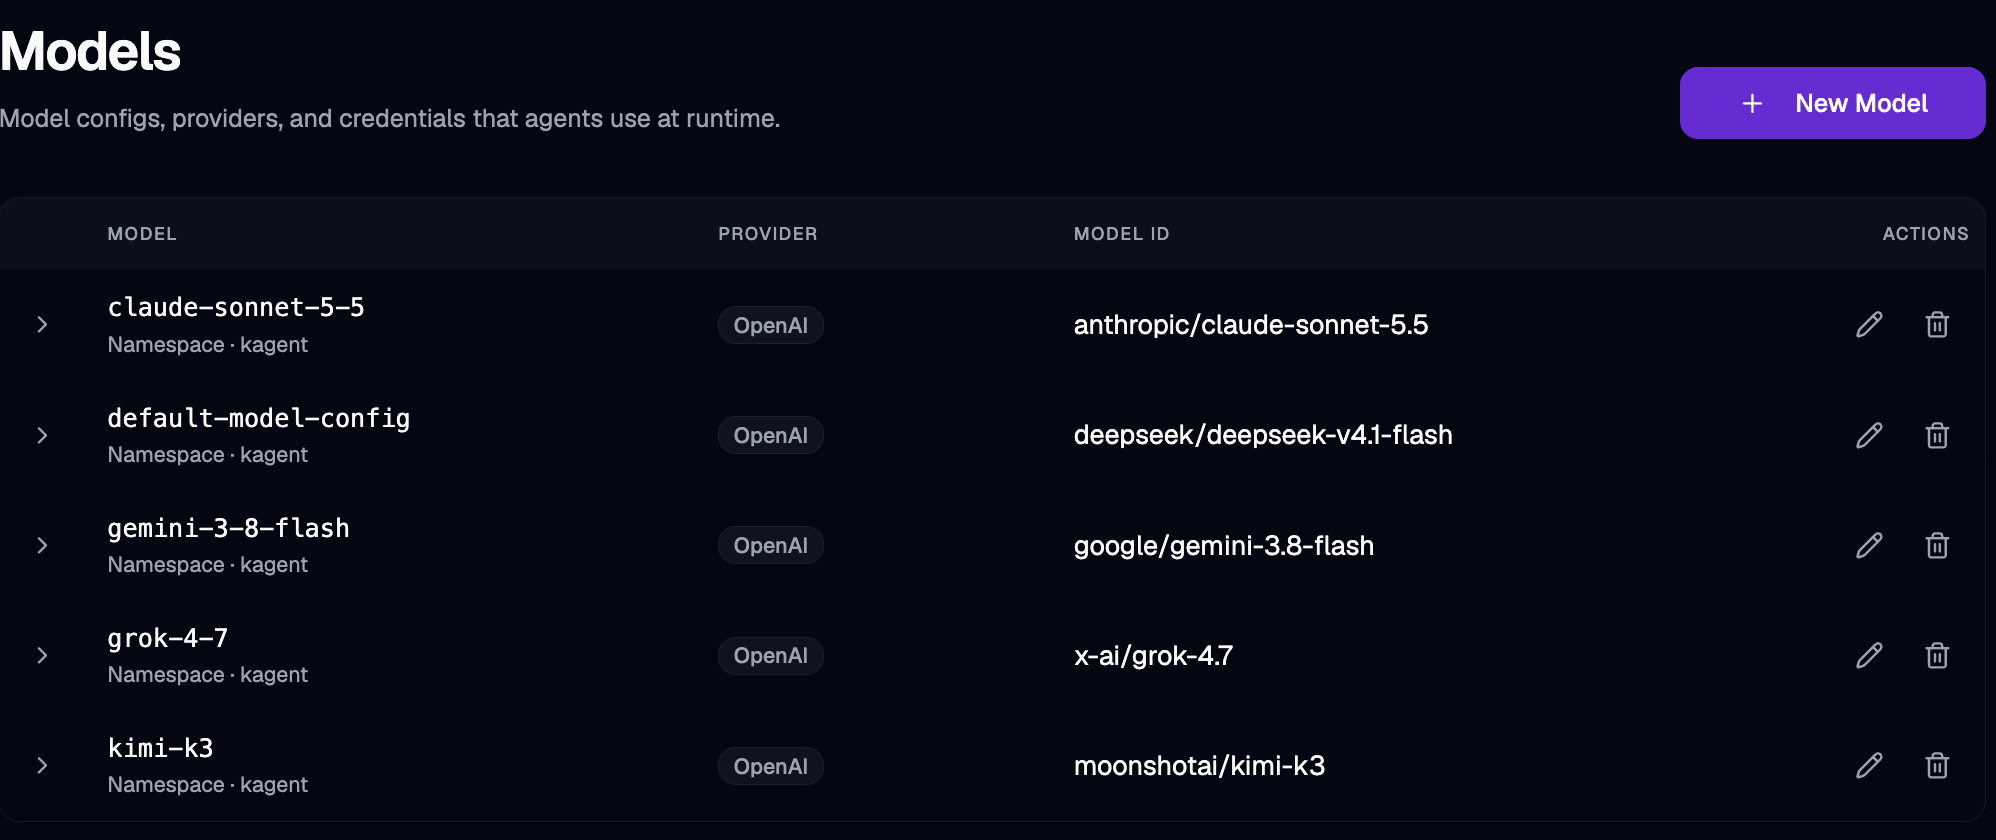
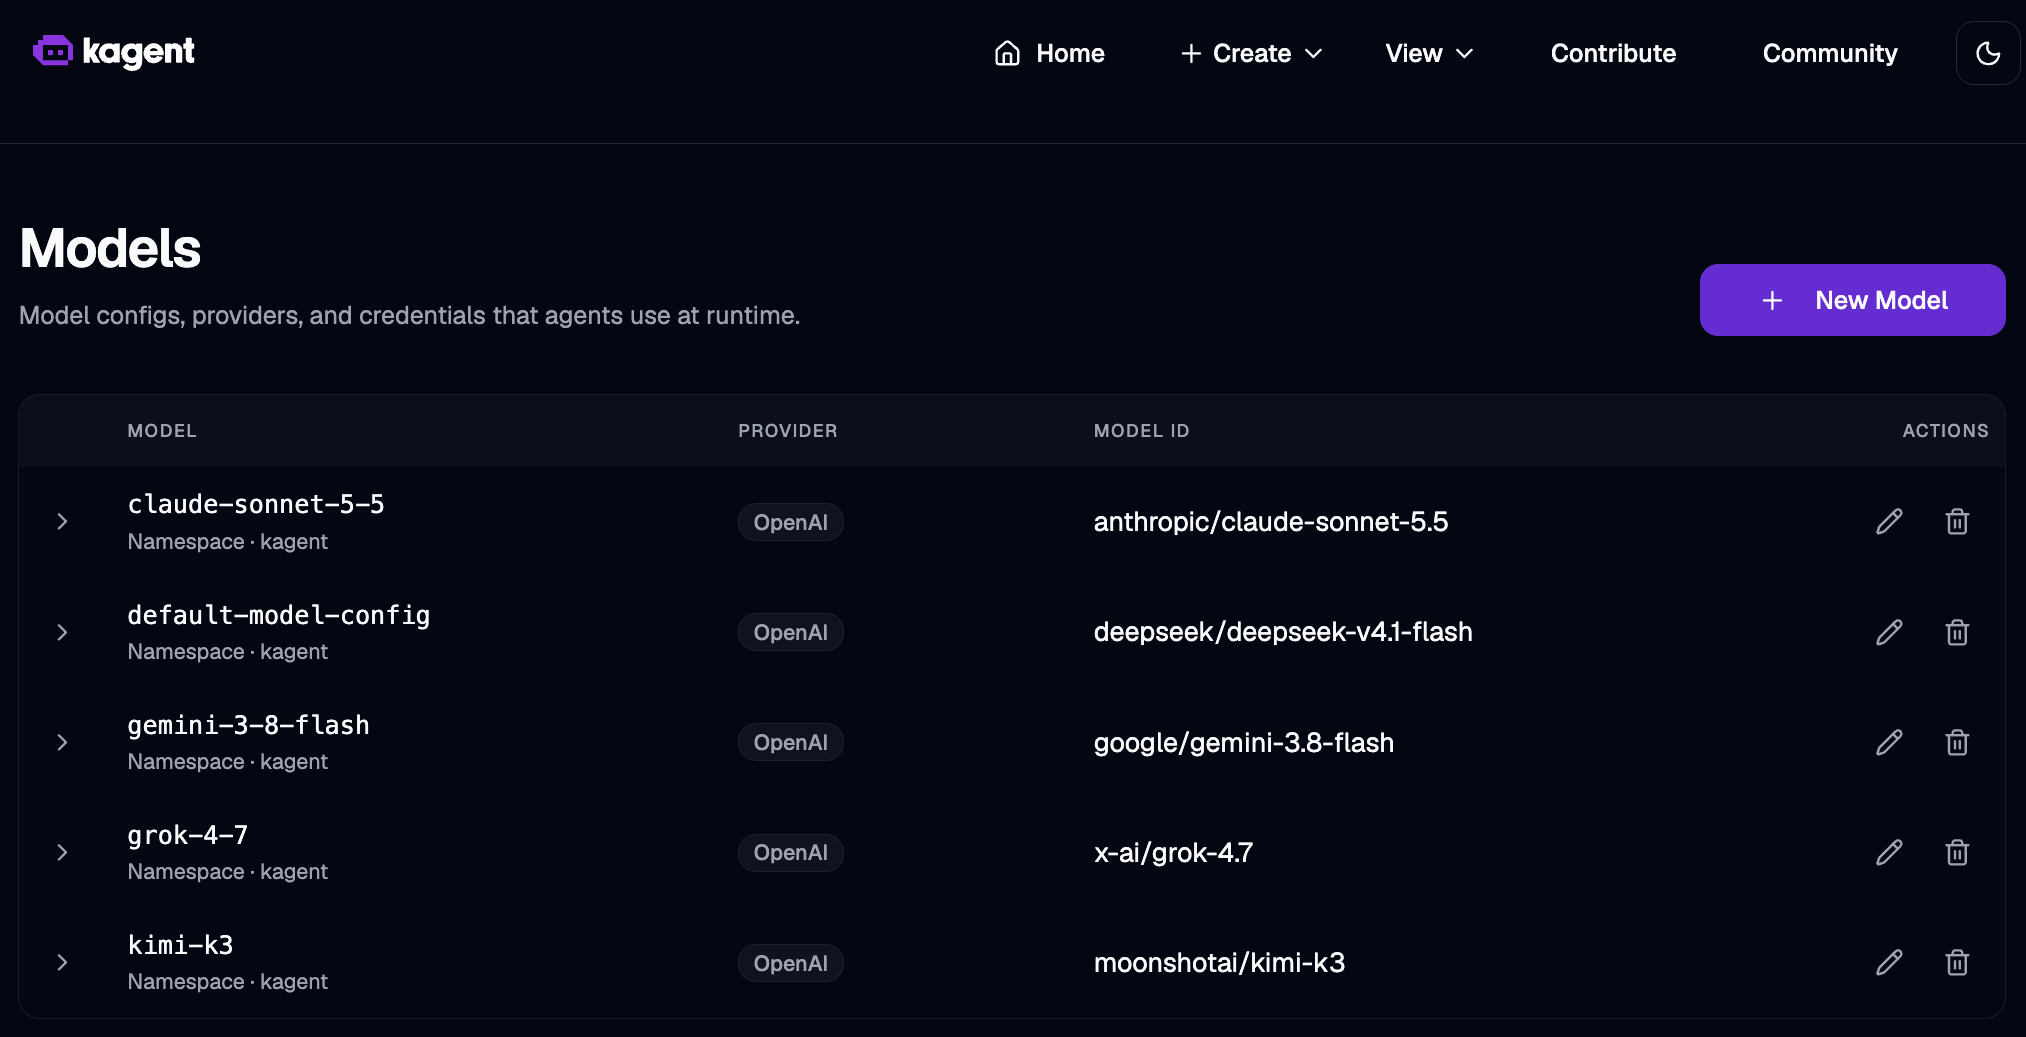
Show the AWS console in the carousel evidence crops
The EKS and ECR crops keep the AWS header, breadcrumb and left navigation
so the pages read as the AWS console; the kagent UI crops keep its
navigation bar. The k9s agents list moves to the agents-as-tools page and
the evidence page shows the two consoles.

diff --git a/docs/linkedin-carousel.md b/docs/linkedin-carousel.md
@@ -22,7 +22,7 @@ A first version was generated from an earlier eight-page brief. Keep these fixes
 - Page 3's footnote ran off the page under a 23-line excerpt. Excerpts now start at `spec:` and no page carries more than 16 lines of code.
 - The cover did not say what the system is for or what it is built with. It now does, with the repository URL.
 - The diagram boxes and arrows were hairlines. Cards now have 3 px outlines and arrows are 3 px with solid heads.
-- There was no evidence from the live system. Six screenshot crops are now placed on pages 4, 6, 10 and 12.
+- There was no evidence from the live system. Six screenshot crops are now placed on pages 4, 6, 8, 10 and 12, two of them from the AWS console.
 
 ---
 
@@ -37,7 +37,7 @@ Design a 13-page document for a LinkedIn document post (PDF carousel). Portrait 
 - Typeface: one clean sans-serif such as Inter for everything except code; a monospace such as JetBrains Mono for code. Consistent sizes across pages.
 - Accent colours, used only for small marks, left accent bars, arrows and one highlighted phrase per headline: indigo #4F46E5 (orchestration, requests), blue #2563EB (diagnosis), amber #B45309 (changes that need approval), cyan #0E7490 (the custom agent), steel-blue #0369A1 (results and tool calls, dashed). Fills on cards are very pale tints of the same colours; never a saturated block.
 - Diagram cards: white fill, a solid 3 px outline in dark slate #334155, 12 px radius, a 6 px coloured left accent bar, and the name in bold. Cards must read as solid boxes, not hairline frames. Arrows are 3 px, with a filled triangular head about 14 px long at the destination only: solid indigo for requests and delegation, dashed steel-blue for results. No double-headed arrows anywhere.
-- Screenshots: the crops in `docs/screenshots/crops/` are placed as-is, full column width, inside a card with the same 3 px slate outline and 12 px radius, never scaled so that their text falls below about 22 px on the page, never re-cropped, recoloured or annotated. Each has a one-line caption in secondary text directly beneath it.
+- Screenshots: the crops in `docs/screenshots/crops/` are placed as-is, full column width, inside a card with the same 3 px slate outline and 12 px radius, never re-cropped, recoloured or annotated. The console crops are cut so that the AWS header, the service breadcrumb and the left navigation stay visible: the page must read as the AWS console, and the kagent crops keep the kagent navigation bar for the same reason. Screenshot text may be smaller than body text; the caption beneath each one carries the facts.
 - Code cards: a dark card #1E293B with light text, a header line in the card naming the file, no line numbers, and the lines named under each excerpt highlighted with a faint amber band. Keep the YAML indentation exactly as given. Comments after `#` are part of the excerpt.
 - A small person-and-check mark means "a human approves before this runs"; it appears only where the text says so.
 - Technology marks: the cover carries three badges for Amazon EKS, kagent and kmcp. Use each project's official mark unaltered, at the same height, on a white badge with the name beside it. If a mark is not available, use a text badge with the name only. No other logos anywhere.
@@ -281,7 +281,7 @@ spec:
 
 Highlight the two `type: Agent` lines.
 
-Small diagram under the card: card `sre-orchestrator` (indigo) with a solid indigo arrow labelled `tool call over A2A` to card `cluster-troubleshooter` (blue), and a separate dashed steel-blue arrow back labelled `answer = tool result`.
+Screenshot card: `docs/screenshots/crops/k9s-agents-six.png`. Caption: `k9s, Agent resources: six of the seven agents before the orchestrator was added. incident-reporter is the BYO container; runbook-assistant was not yet accepted (page 7).`
 
 Three bullets:
 
@@ -343,15 +343,14 @@ One line under the grid, secondary text: `The five faults: bad image · crash lo
 
 ### Page 12 · on the cluster
 
-Kicker: `EVIDENCE · THE LIVE SYSTEM`
+Kicker: `EVIDENCE · ON AWS`
 
-Headline: `What the cluster looked like` (highlight "the cluster" in indigo)
+Headline: `What it looked like on AWS` (highlight "on AWS" in amber)
 
-Three screenshot cards stacked, full width, each with its caption:
+Two screenshot cards stacked, full width, each with its caption:
 
-1. `docs/screenshots/crops/eks-nodes-two.png`. Caption: `Amazon EKS console: the two t3.xlarge on-demand nodes in ap-south-1, three minutes after creation.`
-2. `docs/screenshots/crops/k9s-agents-six.png`. Caption: `k9s, Agent resources: six of the seven agents before the orchestrator was added. incident-reporter is the BYO container. runbook-assistant was not yet accepted: querydoc had been referenced as RemoteMCPServer instead of Service.`
-3. `docs/screenshots/crops/k9s-mcpservers.png`. Caption: `k9s, MCPServer resources: the two servers kmcp runs, both Ready.`
+1. `docs/screenshots/crops/aws-eks-console-nodes.png`. Caption: `Amazon EKS console, cluster kagent-sre-lab: two t3.xlarge on-demand nodes in ap-south-1, no node health issues, three minutes after creation.`
+2. `docs/screenshots/crops/aws-ecr-console-repos.png`. Caption: `Amazon ECR: the two images built here, incident-reporter-agent and netprobe-mcp, pushed to private repositories in the same region.`
 
 Footnote, secondary text: `Captured on 2026-10-07. The cluster was deleted after the run; the repository keeps every raw response.`
 
@@ -383,7 +382,7 @@ Footer line, secondary text: `Measured on 2026-10-07. kagent 0.9.10 and kmcp 0.3
 - Page 2 has exactly six specialist cards, six arrowheads from the spine, no arrow between two specialists, and two person-and-check marks (release-manager, sre-operator). The caption is two lines and "ap-south-1" is unbroken.
 - Pages 3 to 8: every YAML line matches this file, including the `#` comments. Nothing runs off a page.
 - Diagram cards on pages 2 and 8 have solid 3 px outlines; arrows have filled heads.
-- Six screenshot crops placed unaltered, from `docs/screenshots/crops/`, each with its caption: pages 4, 6, 10 and 12.
+- Six screenshot crops placed unaltered, from `docs/screenshots/crops/`, each with its caption: pages 4, 6, 8, 10 and 12. The two on page 12 show the AWS header and breadcrumb.
 - Page 11 numbers match the README results table.
 - Replace `<ARTICLE_URL>` on page 13 once the article is published; it is also in the post text.
 - Nothing printed that is not in this file.
